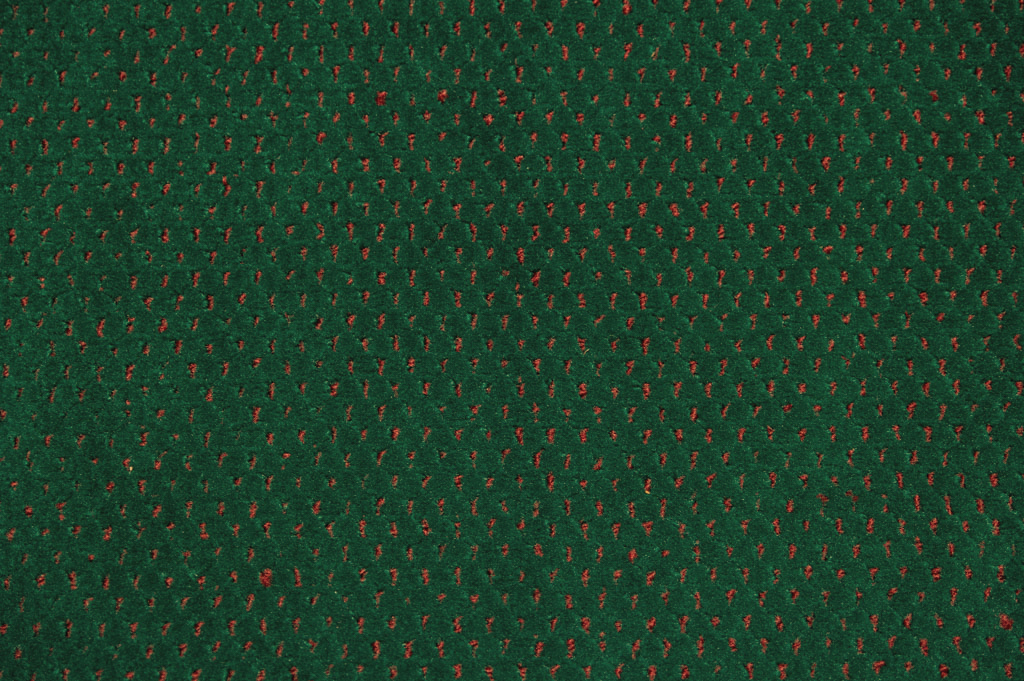
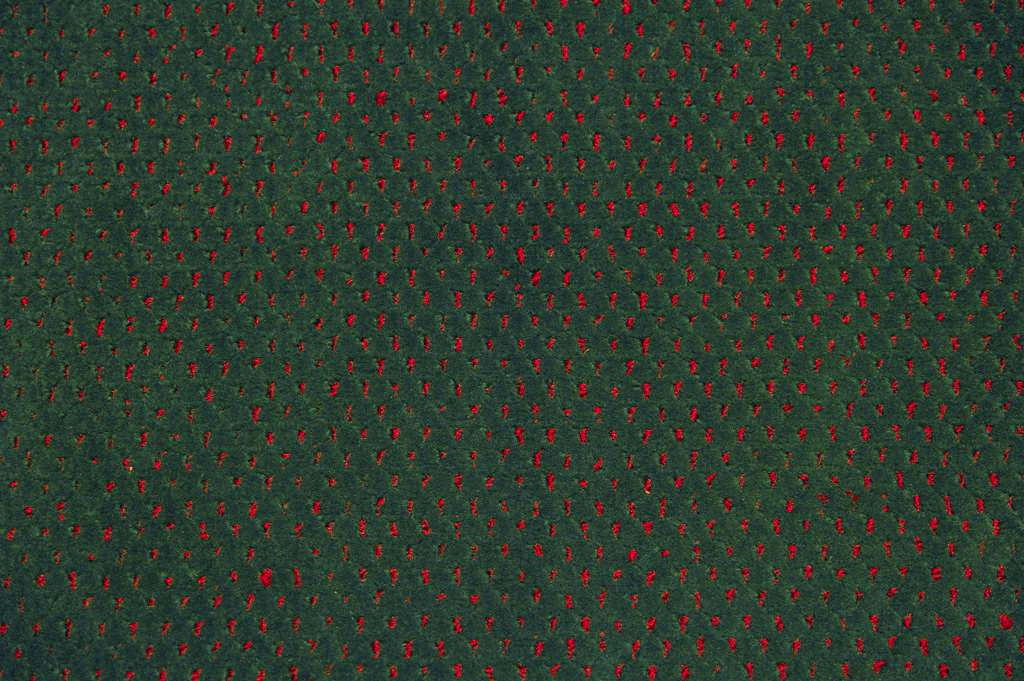
same

Changed region(s): [[0.0, 0.0, 1.0, 1.0], [0.0625, 0.9868, 0.3125, 1.0]]

diff --git a/shows.css b/shows.css
@@ -1,5 +1,5 @@
 body {
-	background: url(images/carpet21.jpg);
+	background: url(images/carpet2.jpg);
 	cursor: url(racecar.cur), auto !important;
 }
 
